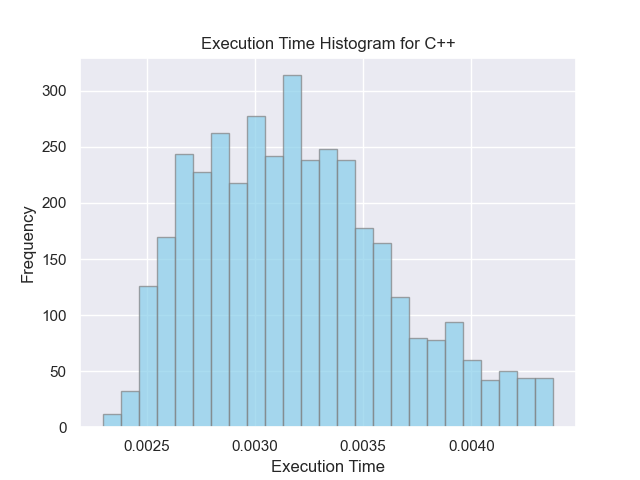
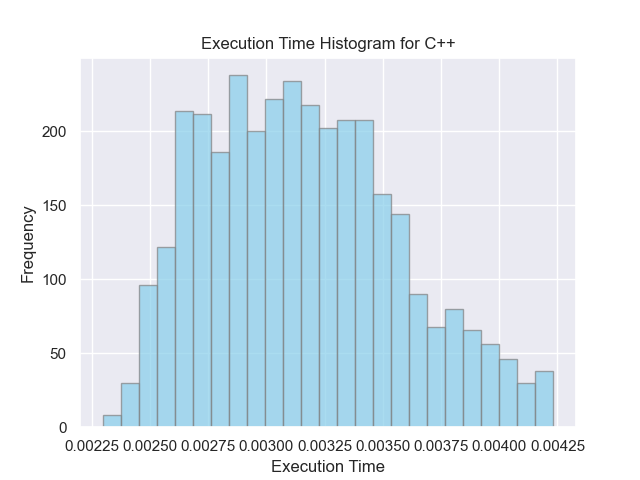
Update anomaly detection

diff --git a/stat_test_extended.py b/stat_test_extended.py
@@ -92,6 +92,9 @@ def main(in_directory):
     # Save plot
     plt.savefig(os.path.join(plots_dir, 'exec_time_vs_instance_num_with_anomalies.png'), dpi=300)
     plt.close()
+
+    #update df to remove anomalies
+    df = df[df['is_anomaly'] == False]
     
     # Combined histogram for all languages
     languages = df['language'].unique()
